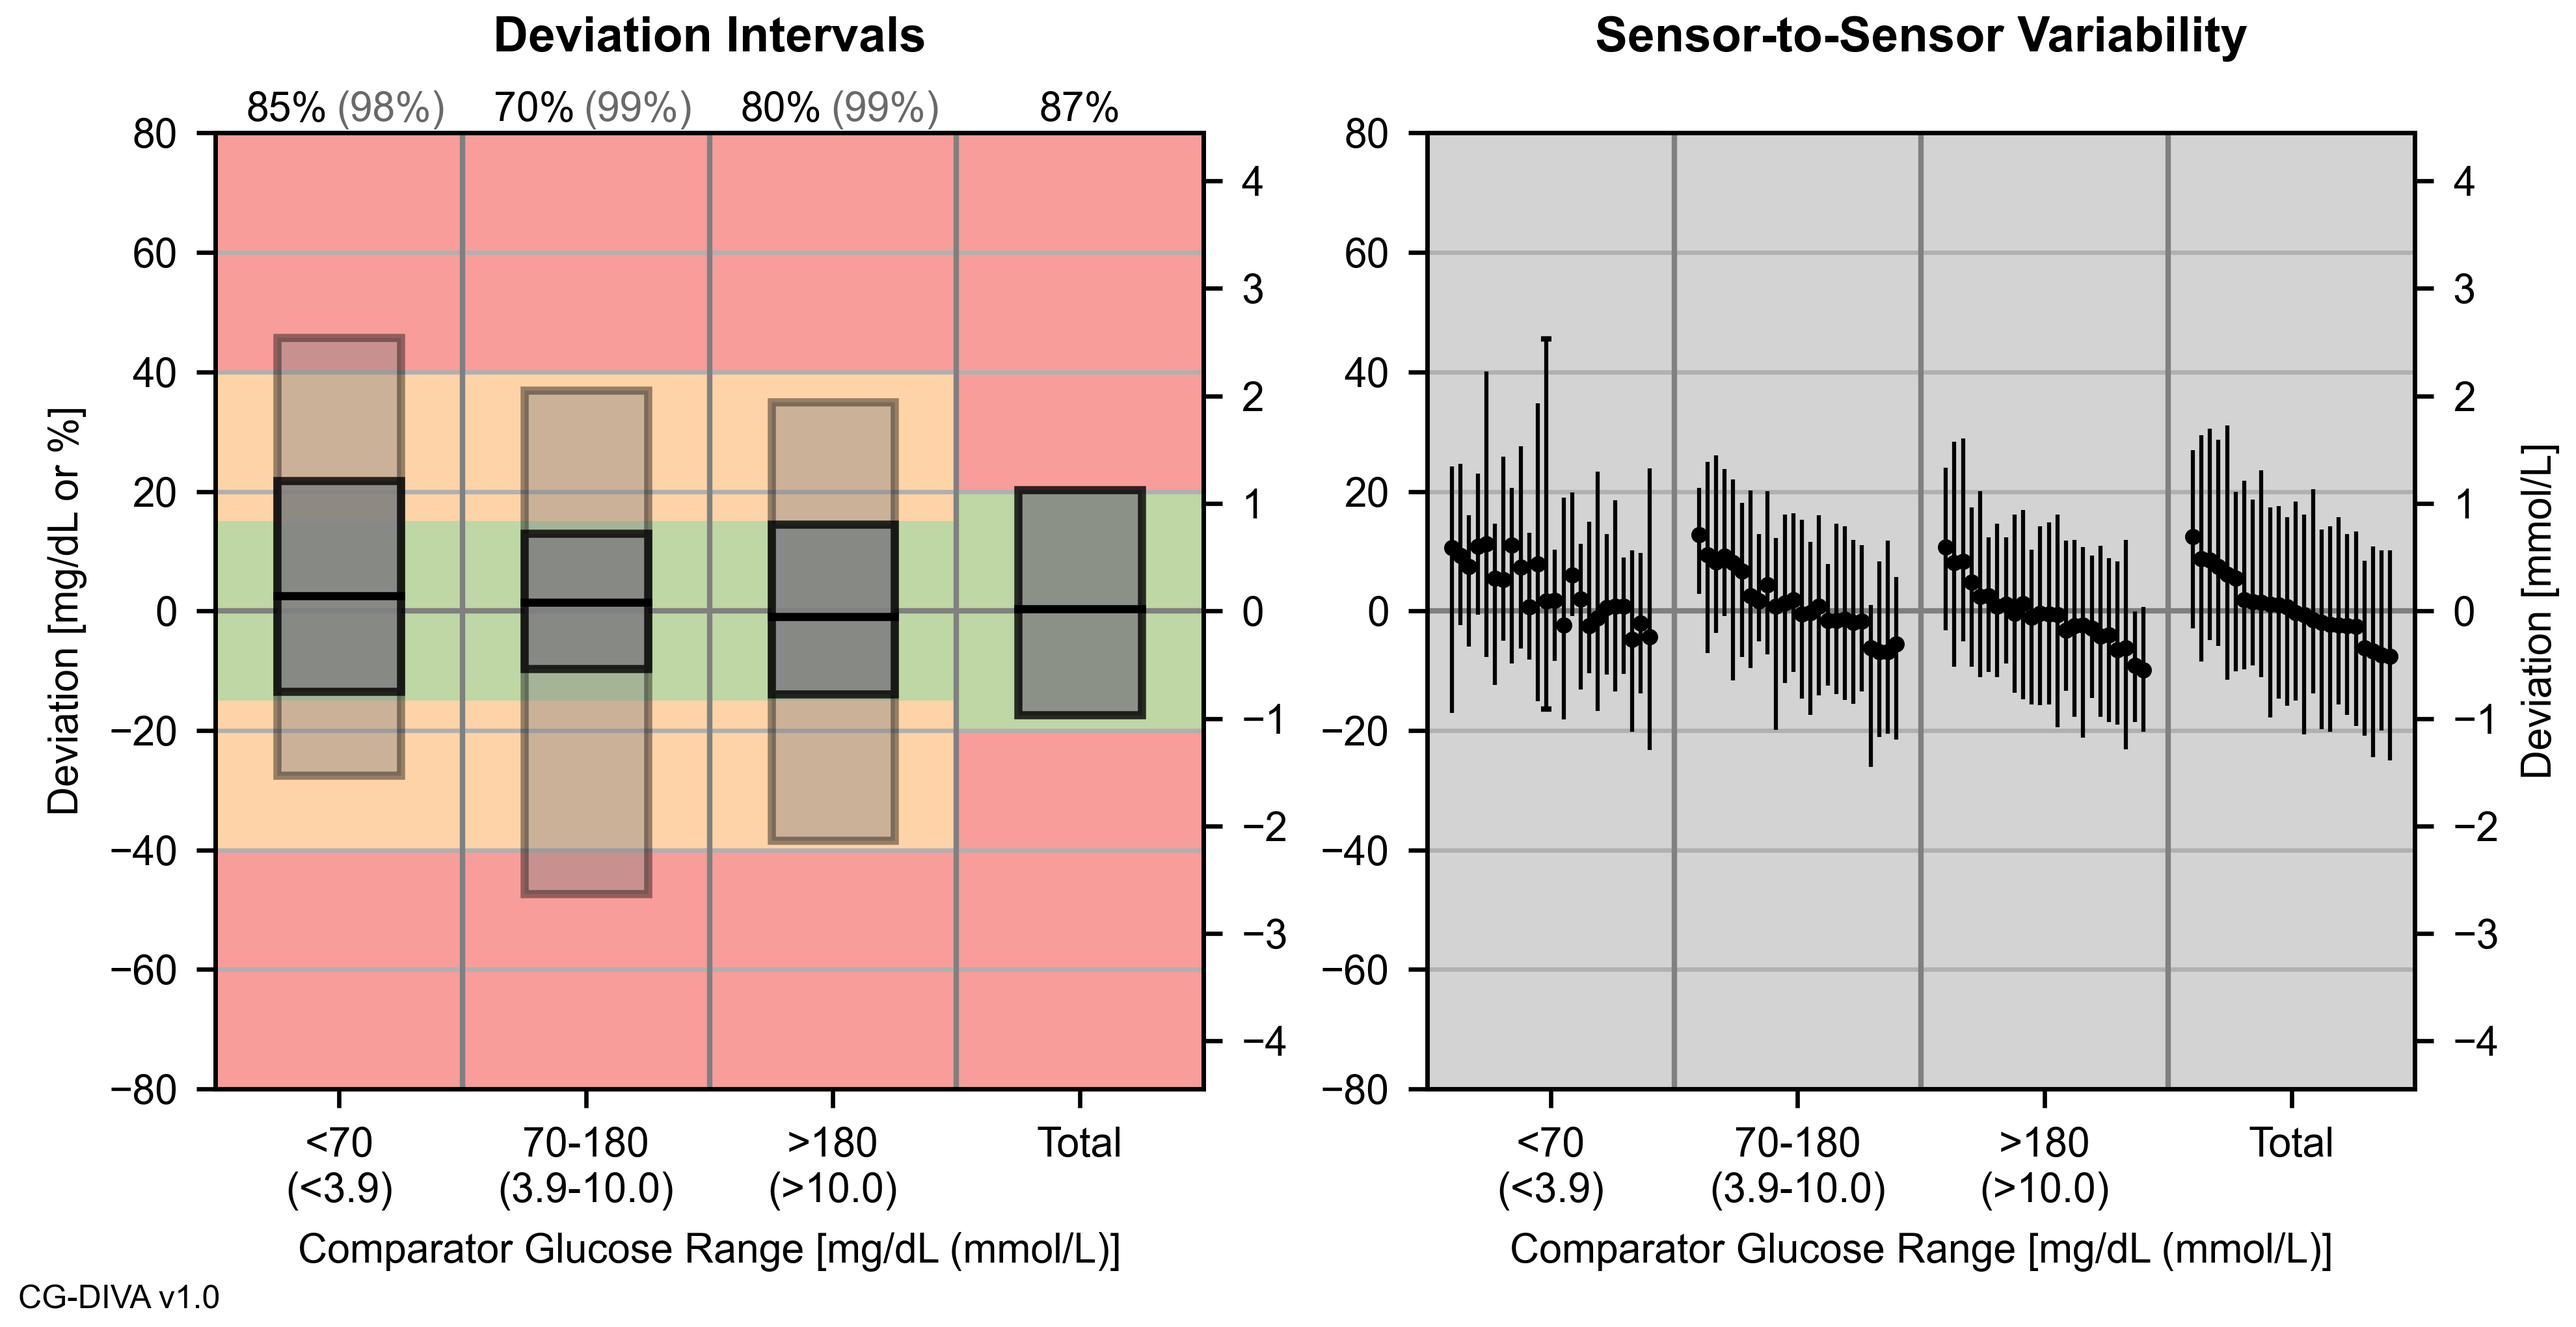
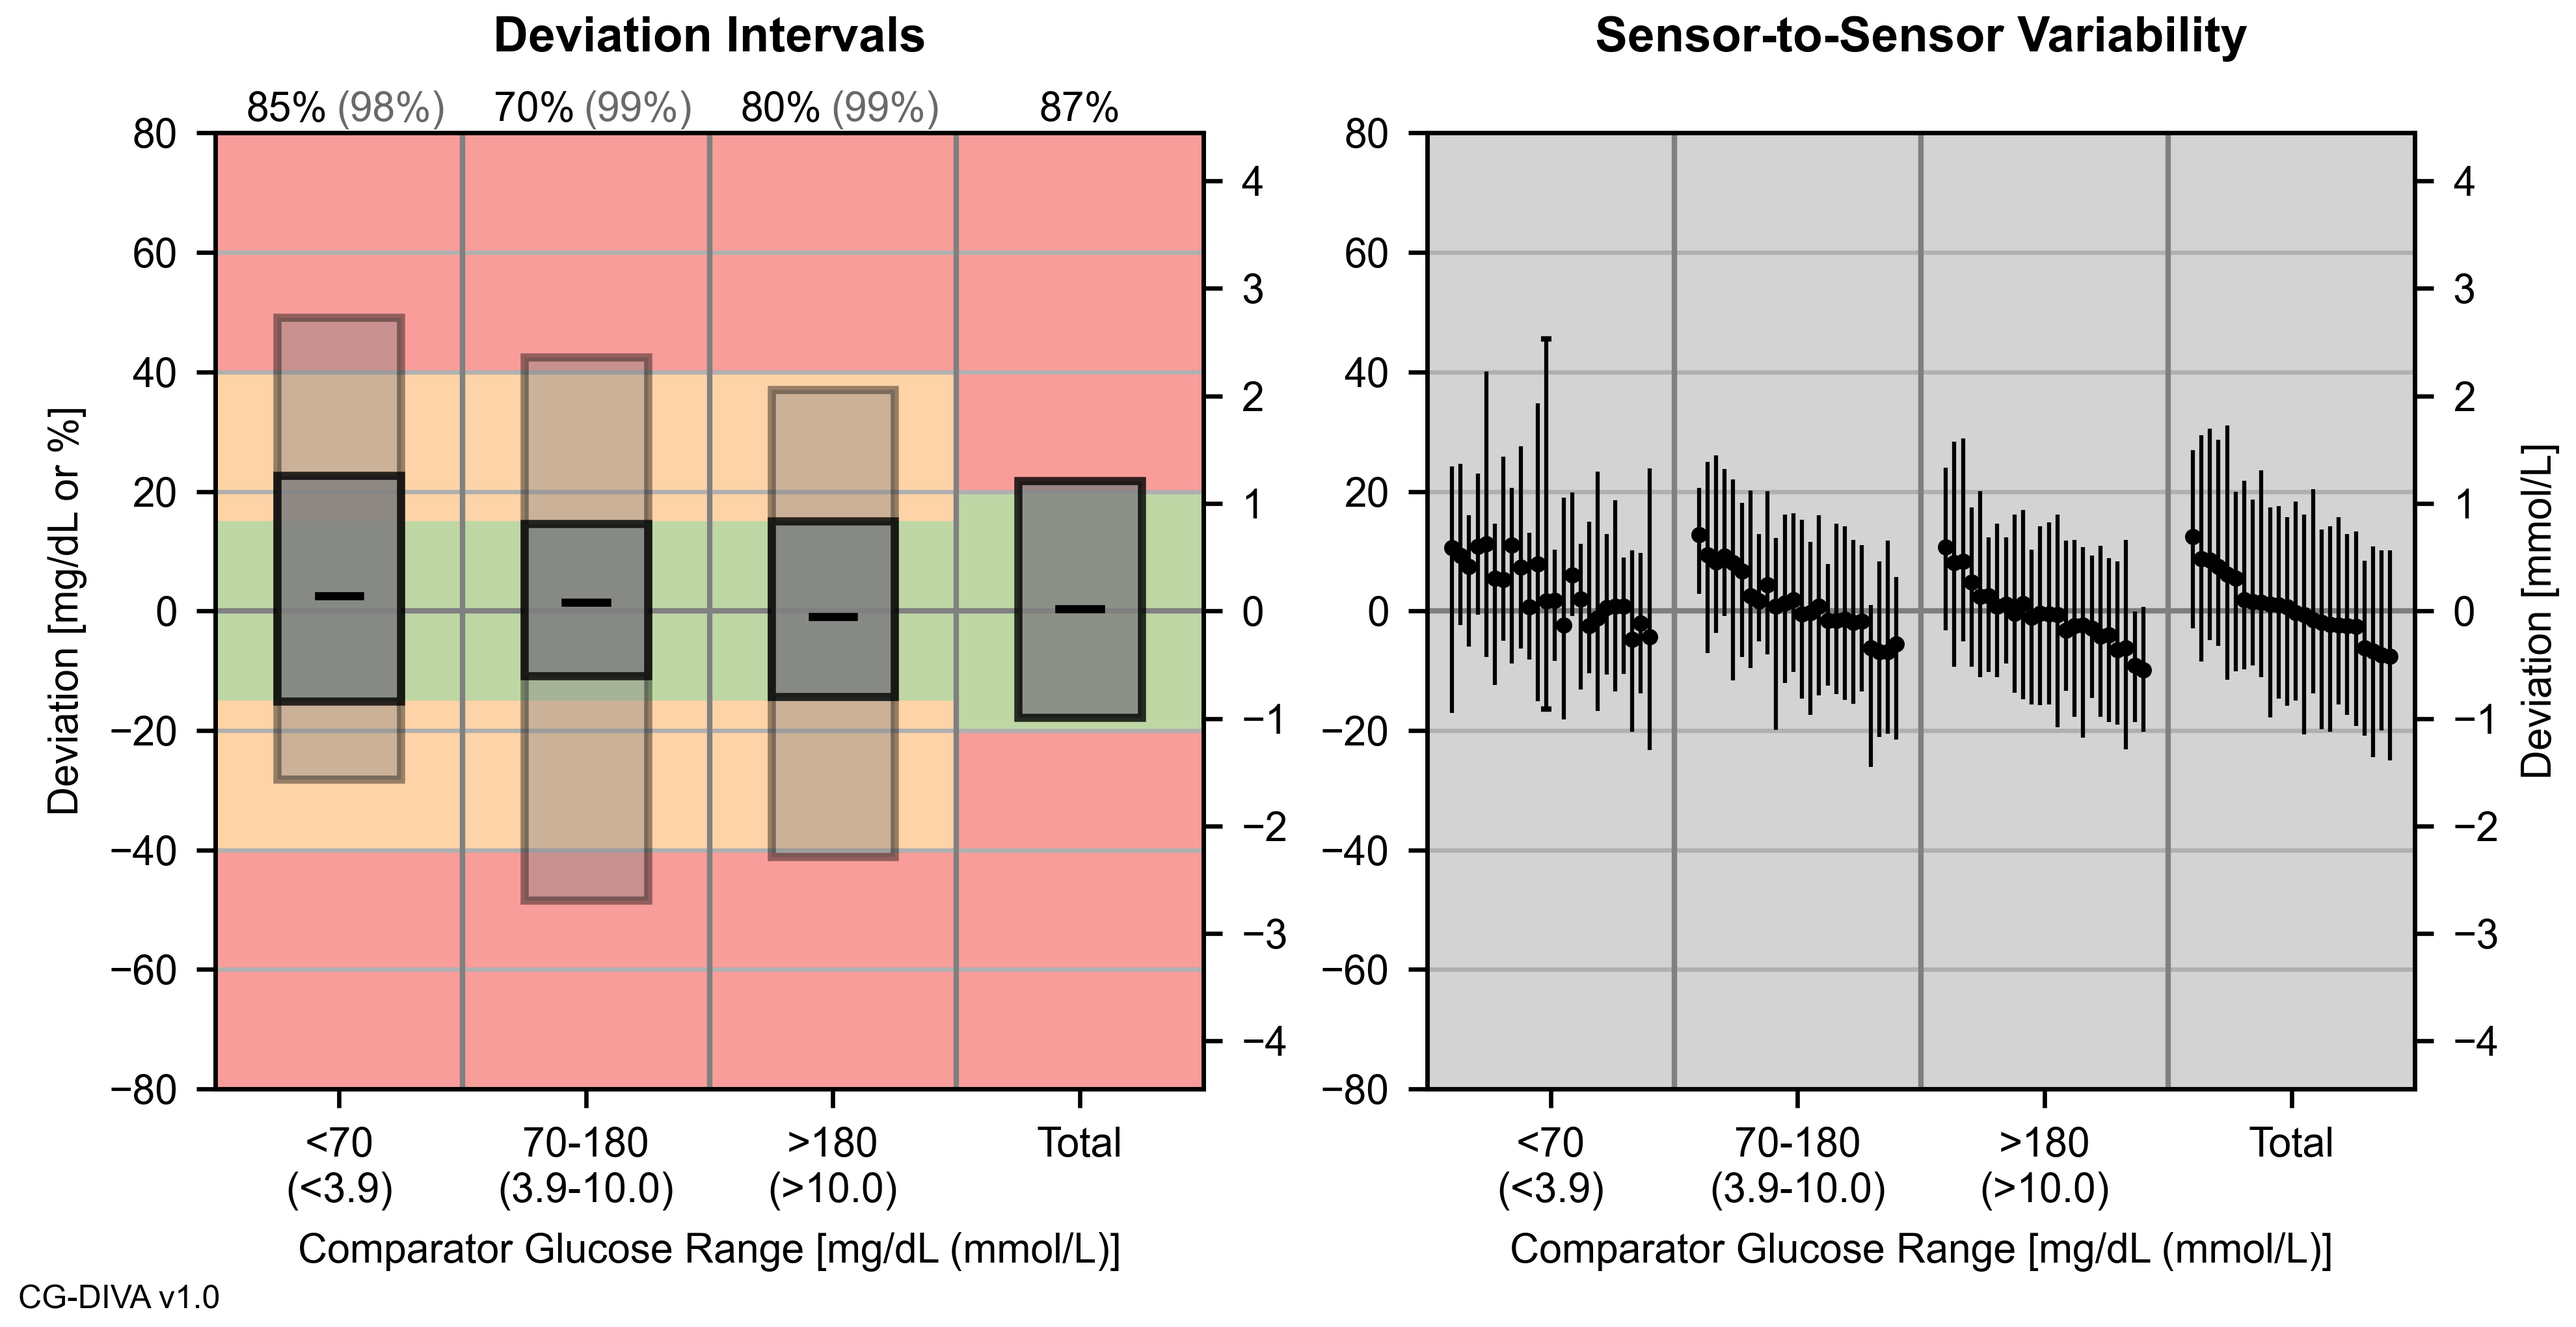
Update Figure and S2S Parameters

diff --git a/CG-DIVA/Python/CG_DIVA.py b/CG-DIVA/Python/CG_DIVA.py
@@ -4,7 +4,7 @@ Continuous Glucose Deviation Interval and Variability Analysis (CG-DIVA)
 For documentaiton see
 https://github.com/IfDTUlm/CGM_Performance_Assessment
 
-Created by: Institut fuer Diabetes-Technologie Forschungs- und Entwichlungsgesellschaft mbH an der Universitaet Ulm
+Created by: Institut für Diabetes-Technology Forschungs- und Entwichlungsgesellschaft mbH an der Universität Ulm
 Contact cgm_performance@idt-ulm.de
 
 This is a free software and comes with ABSOLUTELY NO WARRANTY
@@ -103,7 +103,7 @@ def boostrapping(df,N,seed,conf_level=0.95):
     if N<10000:
         print("WARNING: Bootstrapping with less than 10 000 samples is not recommended")
 
-    RES = pd.DataFrame(columns=["Range","TI_U2","TI_U1","Median","TI_L1","TI_L2","Info"])
+    RES = pd.DataFrame(columns=["Range","Median","DI1_Upper","DI1_Lower","DI1_Range","DI2_Upper","DI2_Lower","DI2_Range"])
     
     if seed:      # Seed is provided, if not reset
         np.random.seed(seed)       # For reproducibility
@@ -147,30 +147,63 @@ def boostrapping(df,N,seed,conf_level=0.95):
         print(f"\r|{bar}| {percent:.1f}%",end="\r")
     
     print()
+    
     ## Collect Results
     RES["Range"] = ["<70","70-180",">180","Total"]
-    RES.at[1,"Info"] = "N_BS: "+str(N)+" Seed: "+str(seed)
-    RES.at[2,"Info"] = "Conf_Level: "+str(conf_level)
 
     # Median
-    RES["Median"] = np.round((df.groupby("Range")["Diff"].median()).to_numpy(),2)
+    RES["Median"] = (df.groupby("Range")["Diff"].median()).to_numpy()
 
     # TI confidence intervals, AR lower confidence bound
     # Loop over Ranges
     for r in range(4):
         # TIs
         a = calc_acc(df[df["Range"]==r+1],qtl=[(1-Int_size1[r])/2,(1+Int_size1[r])/2,(1-Int_size2[r])/2,(1+Int_size2[r])/2])        
-        RES.at[r,"TI_L1"] = np.round(BCa(BS_TI[r,0,:],DI[r,0],a[0],(1-conf_level)/2),2)
-        RES.at[r,"TI_U1"] = np.round(BCa(BS_TI[r,1,:],DI[r,1],a[1],(1+conf_level)/2),2)
-        RES.at[r,"TI_L2"] = np.round(BCa(BS_TI[r,2,:],DI[r,2],a[2],(1-conf_level)/2),2)
-        RES.at[r,"TI_U2"] = np.round(BCa(BS_TI[r,3,:],DI[r,3],a[3],(1+conf_level)/2),2)
+        RES.at[r,"DI1_Lower"] = BCa(BS_TI[r,0,:],DI[r,0],a[0],(1-conf_level)/2)
+        RES.at[r,"DI1_Upper"] = BCa(BS_TI[r,1,:],DI[r,1],a[1],(1+conf_level)/2)
+        RES.at[r,"DI2_Lower"] = BCa(BS_TI[r,2,:],DI[r,2],a[2],(1-conf_level)/2)
+        RES.at[r,"DI2_Upper"] = BCa(BS_TI[r,3,:],DI[r,3],a[3],(1+conf_level)/2)
+        RES.at[r,"DI1_Range"] = RES.at[r,"DI1_Upper"] - RES.at[r,"DI1_Lower"]
+        RES.at[r,"DI2_Range"] = RES.at[r,"DI2_Upper"] - RES.at[r,"DI2_Lower"] 
 
     # Delete results for Total range
-    RES.at[3,"TI_L2"] = "-"
-    RES.at[3,"TI_U2"] = "-"    
+    RES.at[3,"DI2_Lower"] = "-"
+    RES.at[3,"DI2_Upper"] = "-"
+    RES.at[3,"DI2_Range"] = "-"
+
+    ## Sensor-to-sensor variability parameters
+    sens = df["SensorID"].unique()
+    ns = len(sens)
+
+    # Loop over Ranges
+    for r in range(4):
+        med = np.empty(ns)*np.NaN   # Medians
+        r90 = np.empty(ns)*np.NaN   # 90% ranges
+        # Loop over Sensors
+        for i,s in enumerate(sens):
+            # Get deviations of sensor in Range
+            dev = (df[(df["SensorID"]==s) & (df["Range"]==r+1)]["Diff"]).to_numpy()
+            if len(dev)>=3:         # Check if dev has 3 or more datapoints
+                med[i] = np.median(dev)
+                if len(dev)>=10:
+                    r90[i] = np.quantile(dev,0.95) - np.quantile(dev,0.05)
+                else:
+                    r90[i] = np.NaN
+            else:
+                med[i] = np.NaN
+                r90[i] = np.NaN
+            
+        RES.at[r,"BSV_Min_Max"] = "[{:.2f} - {:.2f}]".format(np.nanmin(med),np.nanmax(med))
+        RES.at[r,"BSV_Range"] = np.nanmax(med) - np.nanmin(med)
+        RES.at[r,"WSV_90%Range"] = np.nanmedian(r90)
+        
     
     # Print Timing    
     print("DONE","Processing Time: "+str(np.round(time.time()-start,2))+" seconds")
+
+    # Info
+    RES.at[1,"Info"] = "N_BS: "+str(N)+" Seed: "+str(seed)
+    RES.at[2,"Info"] = "Conf_Level: "+str(conf_level)
     
     return RES
 
@@ -240,25 +273,25 @@ def plotting(df,RES,version,ylims,s_max,figsize):
             pos = r+1   # Position on x-axis
 
             # Read Results from DataFrame
-            TI_L1, TI_U1 = RES.at[r,"TI_L1"], RES.at[r,"TI_U1"]
-            TI_L2, TI_U2 = RES.at[r,"TI_L2"], RES.at[r,"TI_U2"]
+            DI_L1, DI_U1 = RES.at[r,"DI1_Lower"], RES.at[r,"DI1_Upper"]
+            DI_L2, DI_U2 = RES.at[r,"DI2_Lower"], RES.at[r,"DI2_Upper"]
 
             if r<3:         # Only plot Deviation interval 2 for ranges 1-3
                 # Interval 2
                 # Box            
-                ax.add_patch(rect((pos-wdth/2,TI_L2),wdth,TI_U2-TI_L2,
+                ax.add_patch(rect((pos-wdth/2,DI_L2),wdth,DI_U2-DI_L2,
                     facecolor="grey",alpha=0.4,edgecolor='k',linewidth=blw,linestyle="-",zorder=3))
                 # Text above axis
                 ax.text(pos+0.21,ax.get_ylim()[1]+2,Int_size2[r],ha="center",color="dimgrey")
 
             # Interval 1 
             # Box       
-            ax.add_patch(rect((pos-wdth/2,TI_L1),wdth,TI_U1-TI_L1,
+            ax.add_patch(rect((pos-wdth/2,DI_L1),wdth,DI_U1-DI_L1,
                 facecolor="grey",alpha=0.8,edgecolor='k',linewidth=blw,linestyle="-",zorder=3))
 
             # Median
             Med = RES.at[r,"Median"]
-            ax.plot([pos-wdth/2,pos+wdth/2],[Med]*2,'k-',linewidth=blw,zorder=3)
+            ax.plot([pos-wdth/6,pos+wdth/6],[Med]*2,'k-',linewidth=blw,zorder=3)
 
             # Text above axis
             if r<3:
@@ -317,7 +350,7 @@ def plotting(df,RES,version,ylims,s_max,figsize):
                 # Get deviations of sensor in Range
                 dev = (df[(df["SensorID"]==s) & (df["Range"]==r+1)]["Diff"]).to_numpy()
 
-                if np.any(dev):         # Check if dev is empty
+                if len(dev)>=3:         # Check if dev has 3 or more entries
                     m = np.median(dev)
                     if len(dev)>=10:
                         err = [[m-np.quantile(dev,(1-dat_int)/2)],[np.quantile(dev,(1+dat_int)/2)-m]]
